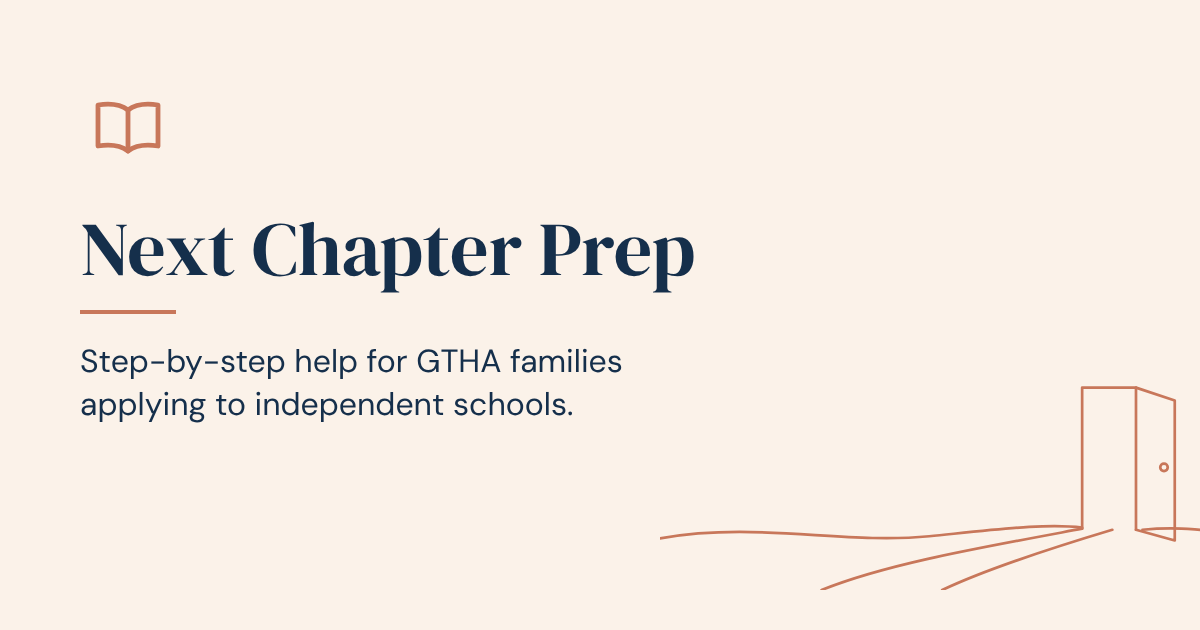
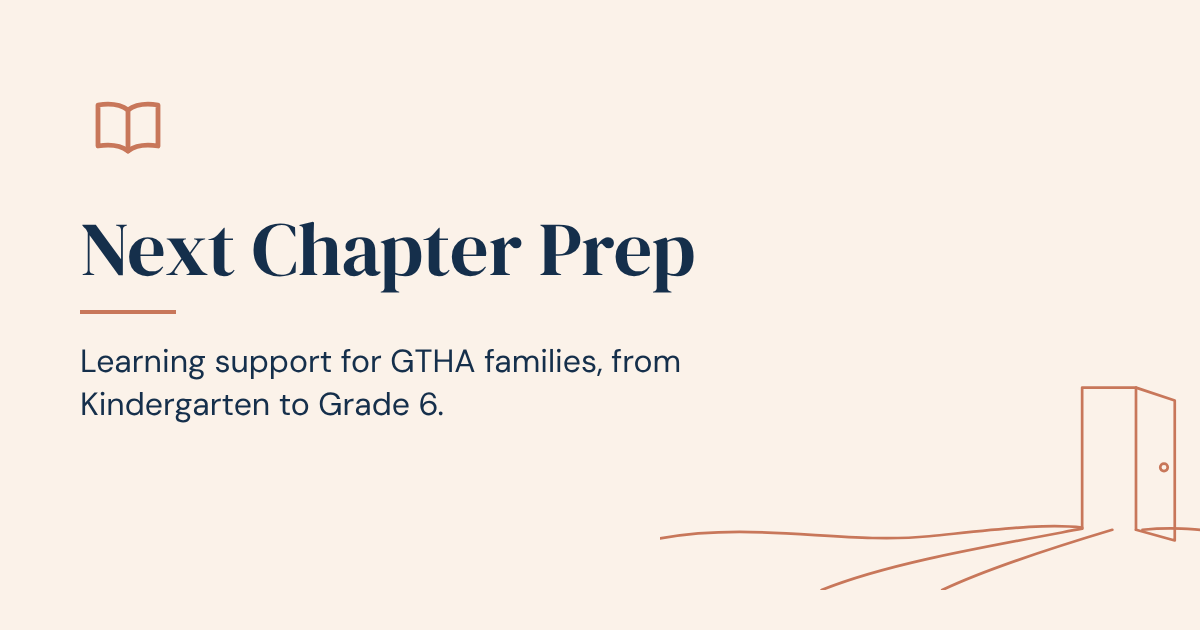
Refocus the site on K–6 learning readiness
Lead with core skills and learning habits for Kindergarten to Grade 6,
add a learning-by-stage section, and keep independent school
applications as one service with the application year timeline below.
Update the share image and page description to match.

Claude-Session: https://claude.ai/code/session_013XAg9d9SoioEiky4YvjBzn

Changed region(s): [[0.0617, 0.5429, 0.555, 0.6635]]

diff --git a/index.html b/index.html
@@ -3,12 +3,12 @@
 <head>
 <meta charset="utf-8">
 <meta name="viewport" content="width=device-width, initial-scale=1">
-<title>Next Chapter Prep · Independent school applications, step by step</title>
-<meta name="description" content="Step-by-step help for GTHA families applying to independent schools. Deadlines, tests, interviews and financial aid, explained clearly.">
+<title>Next Chapter Prep · Learning support from Kindergarten to Grade 6</title>
+<meta name="description" content="Reading, writing and math skills, confident learning habits, and clear guidance when it's time to choose a school. For GTHA families with children in Kindergarten to Grade 6.">
 <meta property="og:type" content="website">
 <meta property="og:url" content="https://nextchapterprep.ca/">
 <meta property="og:title" content="Next Chapter Prep">
-<meta property="og:description" content="Step-by-step help for GTHA families applying to independent schools.">
+<meta property="og:description" content="Learning support for GTHA families, from Kindergarten to Grade 6.">
 <meta property="og:image" content="https://nextchapterprep.ca/og-image.png">
 <meta name="twitter:card" content="summary_large_image">
 <meta name="theme-color" content="#fbf2e9">
@@ -85,6 +85,12 @@
   .topic svg { width: 52px; height: 52px; }
   .topic h3 { font-size: 26px; line-height: 1.15; margin-bottom: 8px; }
 
+  /* Stages */
+  .stages { display: grid; grid-template-columns: repeat(3, minmax(0, 1fr)); gap: 24px; }
+  .stage { border-top: 3px solid var(--clay); padding-top: 18px; display: flex; flex-direction: column; gap: 8px; }
+  .stage .when { margin: 0; }
+  .stage h3 { font-size: 26px; line-height: 1.15; }
+
   /* Application year */
   .year { display: grid; grid-template-columns: minmax(0, 1fr) minmax(0, 0.7fr); gap: 56px; align-items: end; }
   .steps { list-style: none; margin: 0; padding: 0; display: flex; flex-direction: column; gap: 28px; counter-reset: step; }
@@ -97,7 +103,7 @@
 
   /* Workbooks */
   .books { display: grid; grid-template-columns: repeat(2, minmax(0, 1fr)); gap: 24px; }
-  .book { background: var(--paper); border-radius: 6px; padding: 28px; display: flex; flex-direction: column; gap: 10px; }
+  .book { background: var(--sand); border-radius: 6px; padding: 28px; display: flex; flex-direction: column; gap: 10px; }
   .book .when { margin: 0; }
   .book h3 { font-size: 28px; line-height: 1.1; }
 
@@ -119,7 +125,7 @@
     .hero .wrap { grid-template-columns: minmax(0, 1fr); gap: 32px; padding-block: 32px 48px; }
     .lead { font-size: 18px; }
     section { padding-block: 56px; }
-    .topics, .books { grid-template-columns: minmax(0, 1fr); gap: 32px; }
+    .topics, .books, .stages { grid-template-columns: minmax(0, 1fr); gap: 32px; }
     .year { grid-template-columns: minmax(0, 1fr); gap: 40px; }
     .stairs { max-width: 360px; }
     .ig-link .label { display: none; }
@@ -149,12 +155,12 @@
   <section class="hero" aria-labelledby="hero-title" style="padding-block:0">
     <div class="wrap">
       <div>
-        <h1 id="hero-title">Step-by-step help for GTHA families applying to independent schools.</h1>
+        <h1 id="hero-title">Helping your child get ready for their next chapter.</h1>
         <div class="rule"></div>
-        <p class="lead">Deadlines, tests, interviews and financial aid, explained clearly, so you always know what comes next.</p>
+        <p class="lead">Strong reading, writing and math skills, confident learning habits, and clear guidance when it's time to choose a school. For GTHA families with children in Kindergarten to Grade 6.</p>
         <div class="actions">
           <a class="button" href="https://www.instagram.com/nextchapterprep.ca/" rel="noopener">Follow on Instagram</a>
-          <a class="button quiet" href="#year">See the application year</a>
+          <a class="button quiet" href="#help">How we help</a>
         </div>
       </div>
       <svg class="hero-art" viewBox="0 0 520 300" aria-hidden="true"><g class="art">
@@ -169,38 +175,64 @@
     </div>
   </section>
 
-  <section class="band" aria-labelledby="cover-title">
+  <section id="help" class="band" aria-labelledby="help-title">
     <div class="wrap">
       <div class="section-head">
-        <h2 id="cover-title">What we help with</h2>
-        <p>The independent school process has a lot of moving parts. We explain each one in plain language, with the dates and documents you'll actually need.</p>
+        <h2 id="help-title">How we help</h2>
+        <p>Good preparation starts long before any application. We help children build the skills and habits that make every new grade easier, and we guide families through school choices when the time comes.</p>
       </div>
       <div class="topics">
         <div class="topic">
+          <svg viewBox="0 0 52 52" aria-hidden="true"><g class="art"><path d="M26 14 C21 10 14 9.5 6 11 L6 39 C14 37.5 21 38 26 42 C31 38 38 37.5 46 39 L46 11 C38 9.5 31 10 26 14 Z"/><path d="M26 14 L26 42"/></g></svg>
+          <div><h3>Core skills</h3><p>Reading, writing and math practice matched to the Ontario curriculum, at your child's level, from first sounds and numbers to Grade 6 problem solving.</p></div>
+        </div>
+        <div class="topic">
+          <svg viewBox="0 0 52 52" aria-hidden="true"><g class="art"><path d="M26 6 C17 6 11 12.5 11 20.5 C11 26 14 29.5 17 32.5 C19 34.5 20 36.5 20 39 L32 39 C32 36.5 33 34.5 35 32.5 C38 29.5 41 26 41 20.5 C41 12.5 35 6 26 6 Z"/><path d="M20 44 L32 44"/><path d="M22 48.5 L30 48.5"/></g></svg>
+          <div><h3>Learning habits and confidence</h3><p>Talking about ideas, staying organized and keeping calm on tests: the habits that help children enjoy learning and show what they know.</p></div>
+        </div>
+        <div class="topic">
           <svg viewBox="0 0 52 52" aria-hidden="true"><g class="art"><path d="M14 44 L14 8 L34 8 L34 44"/><path d="M34 8 L42 11 L42 46 L34 44"/><circle cx="39" cy="28" r="1.5"/><path d="M4 44 L48 44"/></g></svg>
-          <div><h3>Choosing schools</h3><p>How to build a shortlist around your child: how they learn, the size and pace that suit them, and what daily life and the commute will look like.</p></div>
+          <div><h3>Choosing and applying to schools</h3><p>If your family is considering independent school, we explain each step in plain language: open houses, deadlines, tests, interviews and financial aid.</p></div>
         </div>
         <div class="topic">
-          <svg viewBox="0 0 52 52" aria-hidden="true"><g class="art"><rect x="7" y="10" width="38" height="34" rx="3"/><path d="M7 19 L45 19"/><path d="M16 6 L16 13"/><path d="M36 6 L36 13"/><path d="M19 32 L24 37 L34 26"/></g></svg>
-          <div><h3>Deadlines and financial aid</h3><p>When applications, teacher references and financial aid forms are usually due, and how to keep them all in one family calendar.</p></div>
-        </div>
-        <div class="topic">
-          <svg viewBox="0 0 52 52" aria-hidden="true"><g class="art"><path d="M36 6 L46 16 L19 43 L7 46 L10 34 Z"/><path d="M31 11 L41 21"/><path d="M10 34 L19 43"/></g></svg>
-          <div><h3>Tests and assessments</h3><p>What the SSAT (Secondary School Admission Test) and other entrance assessments involve, and how to prepare steadily rather than cram.</p></div>
-        </div>
-        <div class="topic">
-          <svg viewBox="0 0 52 52" aria-hidden="true"><g class="art"><path d="M6 10 L32 10 Q35 10 35 13 L35 27 Q35 30 32 30 L17 30 L10 36 L10 30 L9 30 Q6 30 6 27 L6 13 Q6 10 9 10 Z"/><path d="M39 20 L43 20 Q46 20 46 23 L46 36 Q46 39 43 39 L42 39 L42 45 L35 39 L24 39 Q21 39 21 36 L21 34"/></g></svg>
-          <div><h3>Interviews and visits</h3><p>What to ask at an open house, and how to help your child talk about themselves in their own words, without memorized answers.</p></div>
+          <svg viewBox="0 0 52 52" aria-hidden="true"><g class="art"><rect x="8" y="30" width="36" height="10" rx="2"/><rect x="12" y="20" width="30" height="10" rx="2"/><rect x="10" y="10" width="32" height="10" rx="2"/><path d="M8 46 L44 46"/></g></svg>
+          <div><h3>Workbooks for home</h3><p>Practice books families can use at the kitchen table, starting with Grade 5 and Grade 6. More grades and one-on-one support will follow.</p></div>
         </div>
       </div>
     </div>
   </section>
 
-  <section id="year" aria-labelledby="year-title">
+  <section aria-labelledby="stages-title">
     <div class="wrap">
       <div class="section-head">
-        <h2 id="year-title">The application year at a glance</h2>
-        <p>For children starting Grade 7 in fall 2027, the application happens this school year, while they are in Grade 6.</p>
+        <h2 id="stages-title">Learning at every stage</h2>
+        <p>What children need changes as they grow. Here's where we focus at each stage.</p>
+      </div>
+      <div class="stages">
+        <div class="stage">
+          <span class="when">Kindergarten to Grade 2</span>
+          <h3>Strong foundations</h3>
+          <p>Early reading and writing, number sense, and the curiosity and listening skills that make school feel good from the start.</p>
+        </div>
+        <div class="stage">
+          <span class="when">Grades 3 and 4</span>
+          <h3>Building fluency</h3>
+          <p>Reading to learn, writing clear paragraphs, and confident work with multiplication, fractions and word problems.</p>
+        </div>
+        <div class="stage">
+          <span class="when">Grades 5 and 6</span>
+          <h3>Ready for what's next</h3>
+          <p>Longer writing, multi-step problem solving and good study habits, plus guidance for families applying to independent schools.</p>
+        </div>
+      </div>
+    </div>
+  </section>
+
+  <section id="year" class="band" aria-labelledby="year-title">
+    <div class="wrap">
+      <div class="section-head">
+        <h2 id="year-title">If you're applying to independent schools</h2>
+        <p>Grade 7 is a common entry year, so many families apply while their child is in Grade 6. For children starting Grade 7 in fall 2027, the application year usually looks like this.</p>
       </div>
       <div class="year">
         <ol class="steps">
@@ -219,17 +251,17 @@
     </div>
   </section>
 
-  <section class="band" aria-labelledby="books-title">
+  <section aria-labelledby="books-title">
     <div class="wrap">
       <div class="section-head">
         <h2 id="books-title">Workbooks on the way</h2>
-        <p>We're writing two workbooks families can use at home, one for each year of the process.</p>
+        <p>We're writing workbooks families can use at home, starting with the two years before Grade 7.</p>
       </div>
       <div class="books">
         <div class="book">
           <span class="when">Grade 5</span>
           <h3>Build</h3>
-          <p>Reading, writing and math practice, plus a gentle first look at how independent schools work.</p>
+          <p>Reading, writing and math practice matched to the Ontario curriculum, plus a gentle first look at how independent schools work.</p>
         </div>
         <div class="book">
           <span class="when">Grade 6</span>
